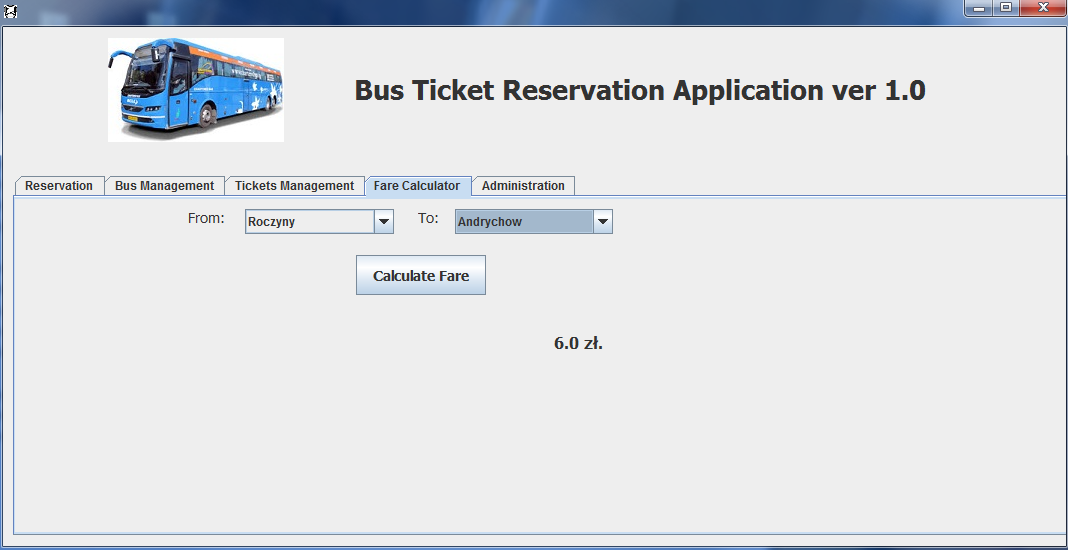
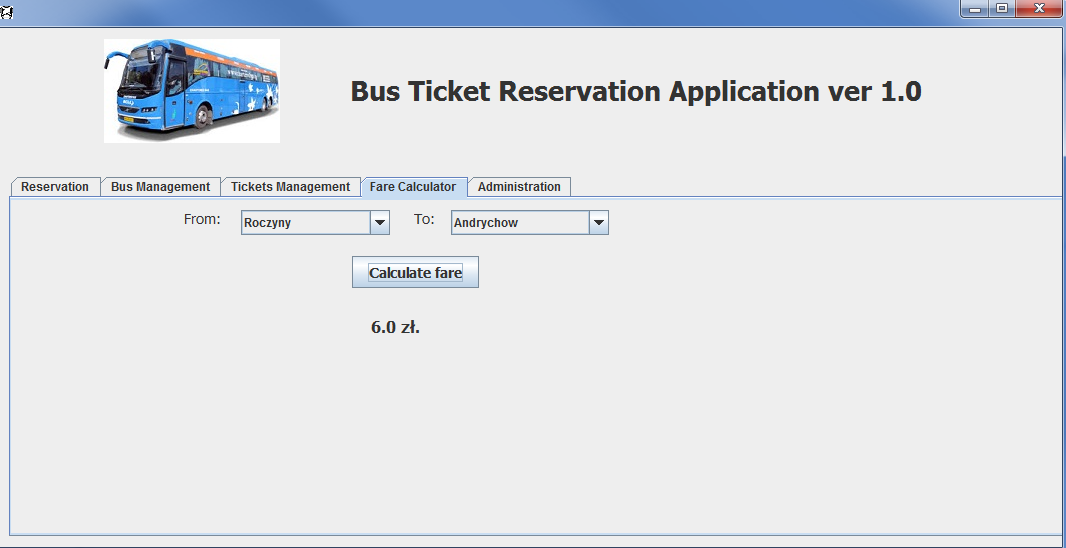
images

diff --git a/BusTicketReservationSystem/src/viewer/FareCalculatorPanel.java b/BusTicketReservationSystem/src/viewer/FareCalculatorPanel.java
@@ -46,16 +46,18 @@ public class FareCalculatorPanel extends JPanel {
     	springLayout.putConstraint(SpringLayout.EAST, to, 174, SpringLayout.EAST, lblTo);
     	add(to);
     	
-    	btnCalculateFare = new JButton("Calculate Fare");
+    	btnCalculateFare = new JButton("Calculate fare");
     	springLayout.putConstraint(SpringLayout.NORTH, btnCalculateFare, 21, SpringLayout.SOUTH, from);
     	springLayout.putConstraint(SpringLayout.WEST, btnCalculateFare, 341, SpringLayout.WEST, this);
+    	springLayout.putConstraint(SpringLayout.SOUTH, btnCalculateFare, -245, SpringLayout.SOUTH, this);
     	btnCalculateFare.setFont(new Font("Tahoma", Font.BOLD, 14));
     	add(btnCalculateFare);
     	
     	lblShowfare = new JLabel("");
-    	springLayout.putConstraint(SpringLayout.SOUTH, btnCalculateFare, -38, SpringLayout.NORTH, lblShowfare);
-    	springLayout.putConstraint(SpringLayout.NORTH, lblShowfare, 134, SpringLayout.NORTH, this);
-    	springLayout.putConstraint(SpringLayout.EAST, lblShowfare, -468, SpringLayout.EAST, this);
+    	springLayout.putConstraint(SpringLayout.NORTH, lblShowfare, 19, SpringLayout.SOUTH, btnCalculateFare);
+    	springLayout.putConstraint(SpringLayout.WEST, lblShowfare, 360, SpringLayout.WEST, this);
+    	springLayout.putConstraint(SpringLayout.SOUTH, lblShowfare, 147, SpringLayout.NORTH, this);
+    	springLayout.putConstraint(SpringLayout.EAST, lblShowfare, -583, SpringLayout.EAST, this);
     	lblShowfare.setFont(new Font("Tahoma", Font.BOLD, 16));
     	add(lblShowfare);
 
